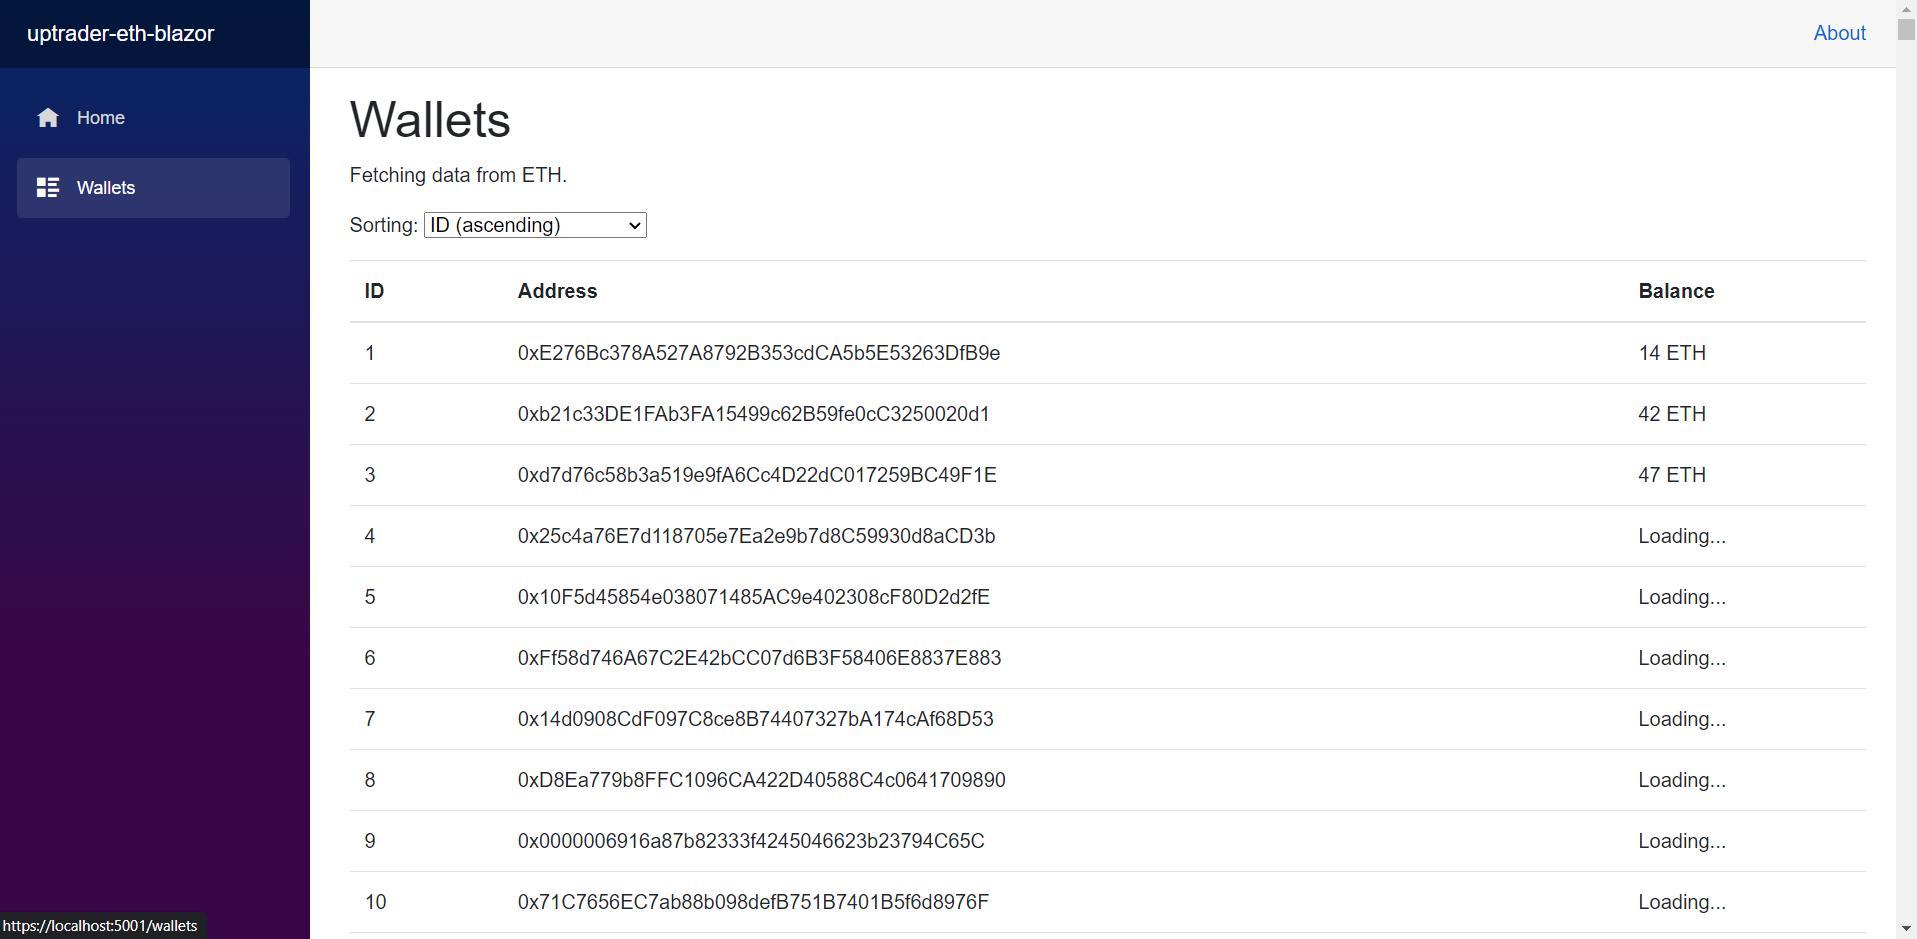
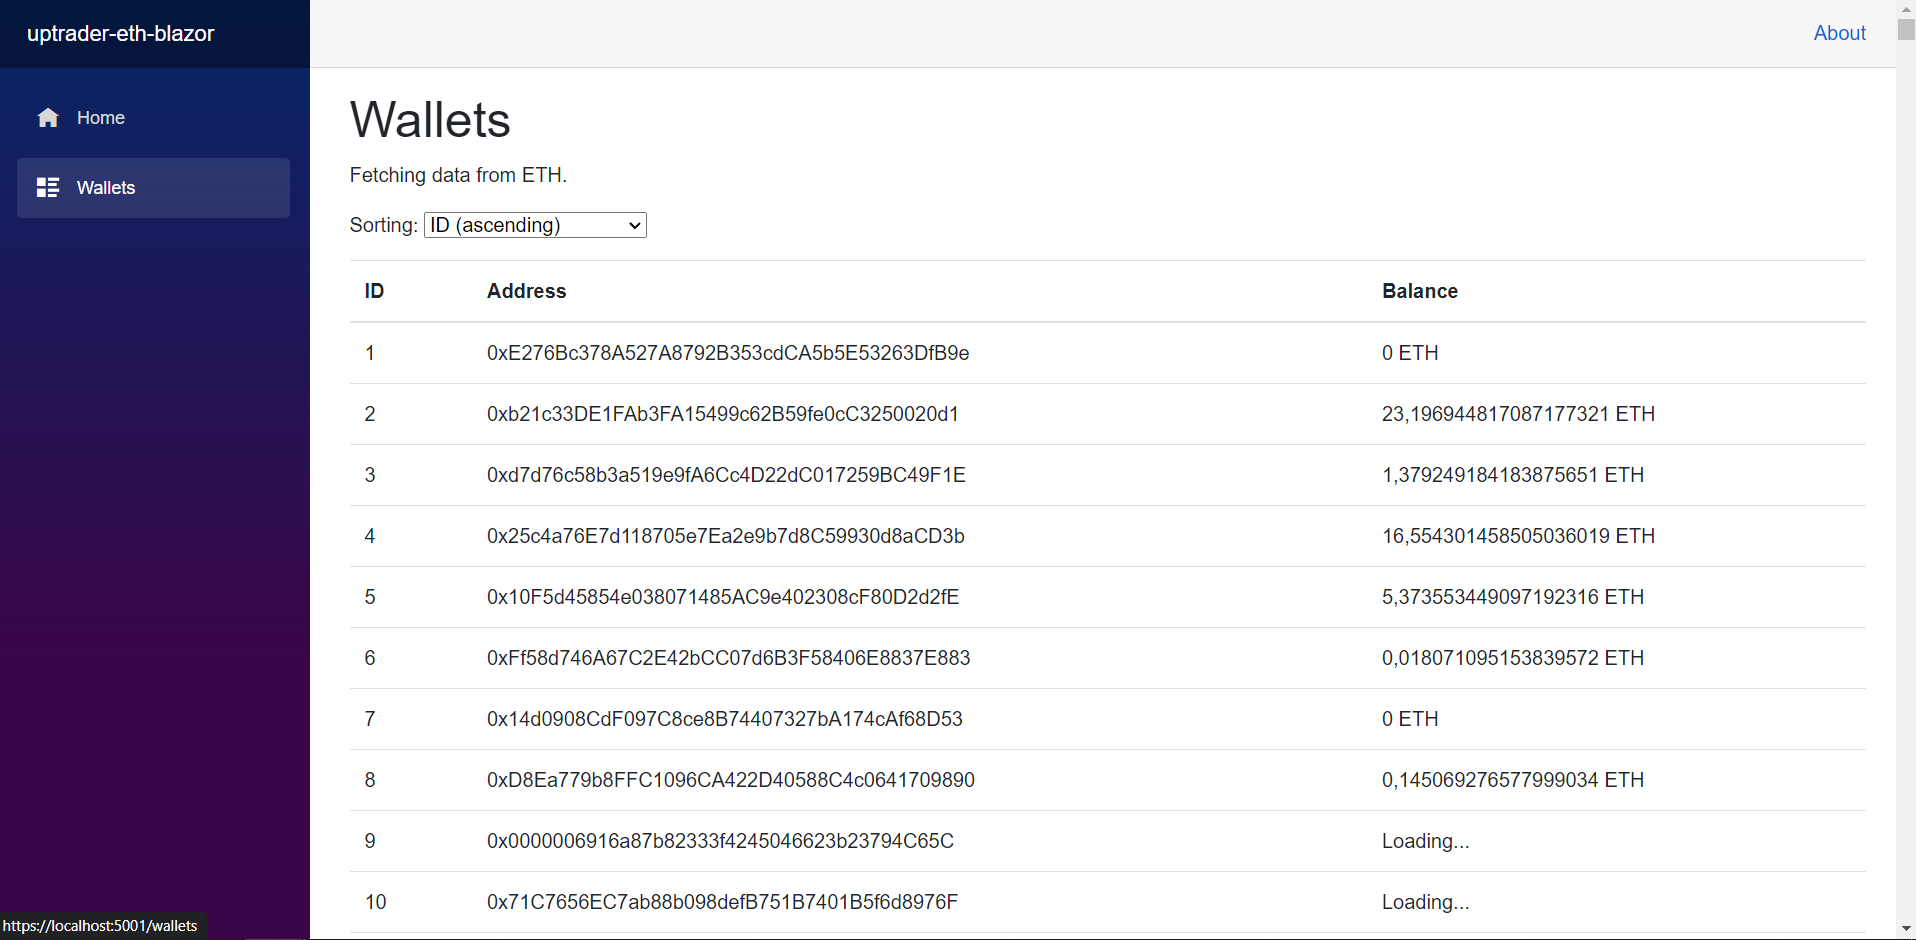
added api-key from infura.io

diff --git a/apiserver/EthNodeCommunication.cs b/apiserver/EthNodeCommunication.cs
@@ -11,6 +11,10 @@ namespace UptraderEth.EthApiServer
     public class EthNodeCommunication
     {
         /// <summary>
+        /// Address of the API node for retrieving ETH data 
+        /// </summary>
+        private string EthConnectionAddress { get; set; }
+        /// <summary>
         /// Shows if connection with ETH node should be established or just imitated 
         /// </summary>
         private bool UseEthConnection { get; set; }
@@ -31,8 +35,9 @@ namespace UptraderEth.EthApiServer
         /// <summary>
         /// Constructor of EthNodeCommunication 
         /// </summary>
-        public EthNodeCommunication(bool useEthConnection, string environment)
+        public EthNodeCommunication(string ethConnectionAddress, bool useEthConnection, string environment)
         {
+            EthConnectionAddress = ethConnectionAddress; 
             UseEthConnection = useEthConnection; 
             Environment = environment; 
         }
@@ -46,11 +51,11 @@ namespace UptraderEth.EthApiServer
 
             decimal ethAmount = 0m; 
             Task task = Task.Run(async () => {
-                if (UseEthConnection && Environment == "production")
+                if (UseEthConnection && !string.IsNullOrEmpty(EthConnectionAddress))
                 {
                     // ServicePointManager.SecurityProtocol |= SecurityProtocolType.Tls | SecurityProtocolType.Ssl3;
 
-                    var web3 = new Web3("https://ropsten.infura.io"); 
+                    var web3 = new Web3(EthConnectionAddress); 
                     var balance = await web3.Eth.GetBalance.SendRequestAsync(address);
                     ethAmount = Web3.Convert.FromWei(balance.Value); 
                 }

diff --git a/apiserver/EthApiHttpServer.cs b/apiserver/EthApiHttpServer.cs
@@ -41,7 +41,7 @@ namespace UptraderEth.EthApiServer
             var configurator = new UptraderEth.Common.Configurator(); 
             Settings = configurator.GetConfigSettings<EthApiServerSettings>(configFile, "EthApiServerSettings"); 
 
-            EthNodeCommunication = new EthNodeCommunication(Settings.UseEthConnection, Settings.Environment); 
+            EthNodeCommunication = new EthNodeCommunication(Settings.EthConnectionAddress, Settings.UseEthConnection, Settings.Environment); 
 
             AddWebPaths(); 
         }

diff --git a/common/Models/EthApiServerSettings.cs b/common/Models/EthApiServerSettings.cs
@@ -19,6 +19,11 @@ namespace UptraderEth.Common.Models
         /// Allows to use ETH connection (if this parameter is set to false, imitation of EHT node will be executed)
         /// </summary>
         public bool UseEthConnection { get; set; }
+
+        /// <summary>
+        /// Address of the API node for retrieving ETH data 
+        /// </summary>
+        public string EthConnectionAddress { get; set; }
         
         /// <summary>
         /// HTTP paths that could be used for testing and debugging the server

diff --git a/README.md b/README.md
@@ -95,6 +95,7 @@ The file contains configurational settings for the API server, for example:
         "ServerAddress": "http://127.0.0.1:8080/ethapiserver/",
         "Environment": "test",
         "UseEthConnection": false,
+        "EthConnectionAddress": "https://mainnet.infura.io/v3/YOUR-API-KEY",
         "HttpPathsDbg": [
             "/dbg/", 
             "/test/"
@@ -104,6 +105,8 @@ The file contains configurational settings for the API server, for example:
     }
 }
 ```
+
+Read [infura getting started docs](https://docs.infura.io/infura/getting-started) to find out how you can get `YOUR-API-KEY`. 
 
 Class `Configurator`, that allows us to read data from JSON file, is located in the `common` module, since there is a possibility that config files could be used in other modules of the project as well. 
 
@@ -143,7 +146,7 @@ Functionality of API server:
     "AppUid": "appuid632rbAbB325ao234", 
     "MethodName": "getbalance", 
     "WalletAddress": "0xE276Bc378A527A8792B353cdCA5b5E53263DfB9e", 
-    "WalletBalance": "0.36452 ETH", 
+    "WalletBalance": "0.36452", 
     "Status": "SUCCESS"
 }
 ```
@@ -158,5 +161,4 @@ It means that the API server could process only one wallet address at a time.
 
 - You can send an array of wallets, containing such fields as `Address` and `Balance`, to reduce number of requests to the server; 
 - In methods for processing HTTP requests inside `UptraderEth.EthApiServer.EthApiHttpServer` class, use `AppUid` and `MethodName` parameters (also check `null` parameters); 
-- Read the [issues](docs/Issues.md) file; 
 - Deploy API server and Blazor app. 
